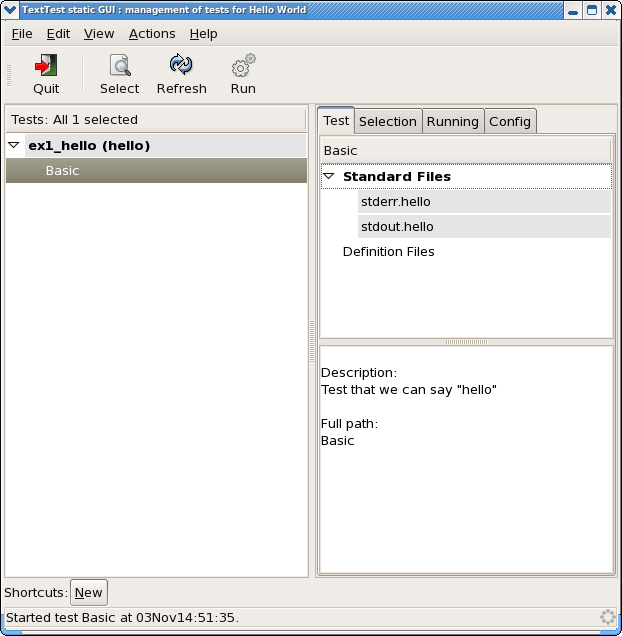
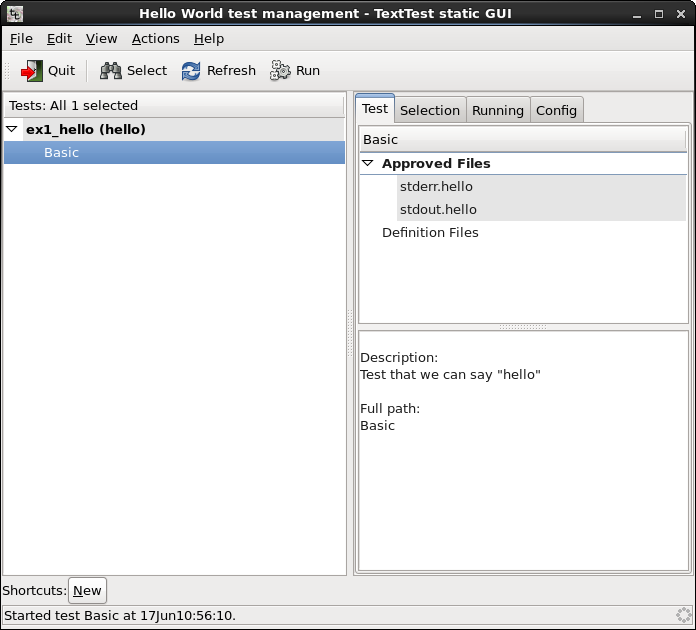
New screenshots

Changed region(s): [[0.0, 0.0, 1.0, 1.0]]

diff --git a/include/documentation/documentation_trunk/getting_started.php b/include/documentation/documentation_trunk/getting_started.php
@@ -105,7 +105,7 @@ variable TEXTTEST_TMP. When the test is approved, these files are
 copied to the test directory created above. For more details,
 see the <A class="Text_Link" href="<?php print "index.php?page=".$version."&n=texttest_sandbox"; ?>">Guide to TextTest's Temporary
 Directory</A>.</I></div>
-<div class="Text_Normal"><img src="<?php print $basePath; ?>images/saved.png" NAME="Graphic5" ALIGN=LEFT BORDER=0><BR CLEAR=LEFT><BR>
+<div class="Text_Normal"><img src="<?php print $basePath; ?>images/approved.png" NAME="Graphic5" ALIGN=LEFT BORDER=0><BR CLEAR=LEFT><BR>
 </div>
 <div class="Text_Normal">Now the test goes green and the produced files are saved as
 the approved versions. By default, TextTest assumes that
